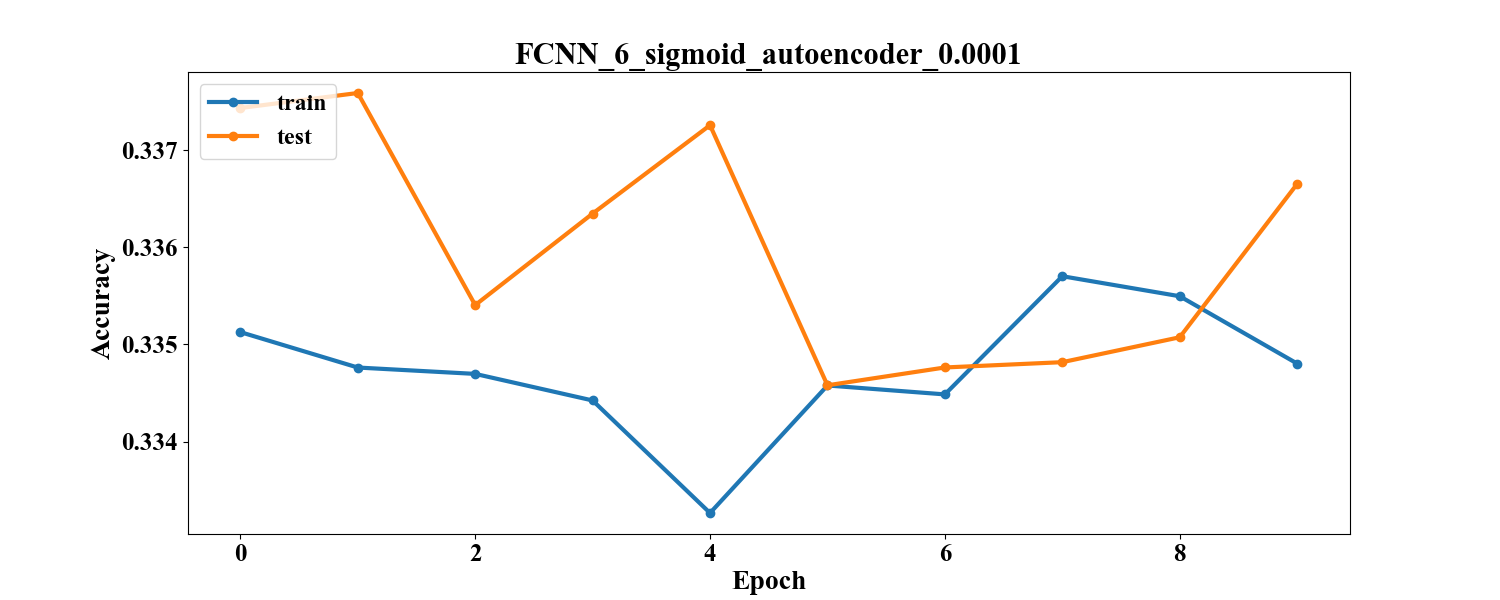
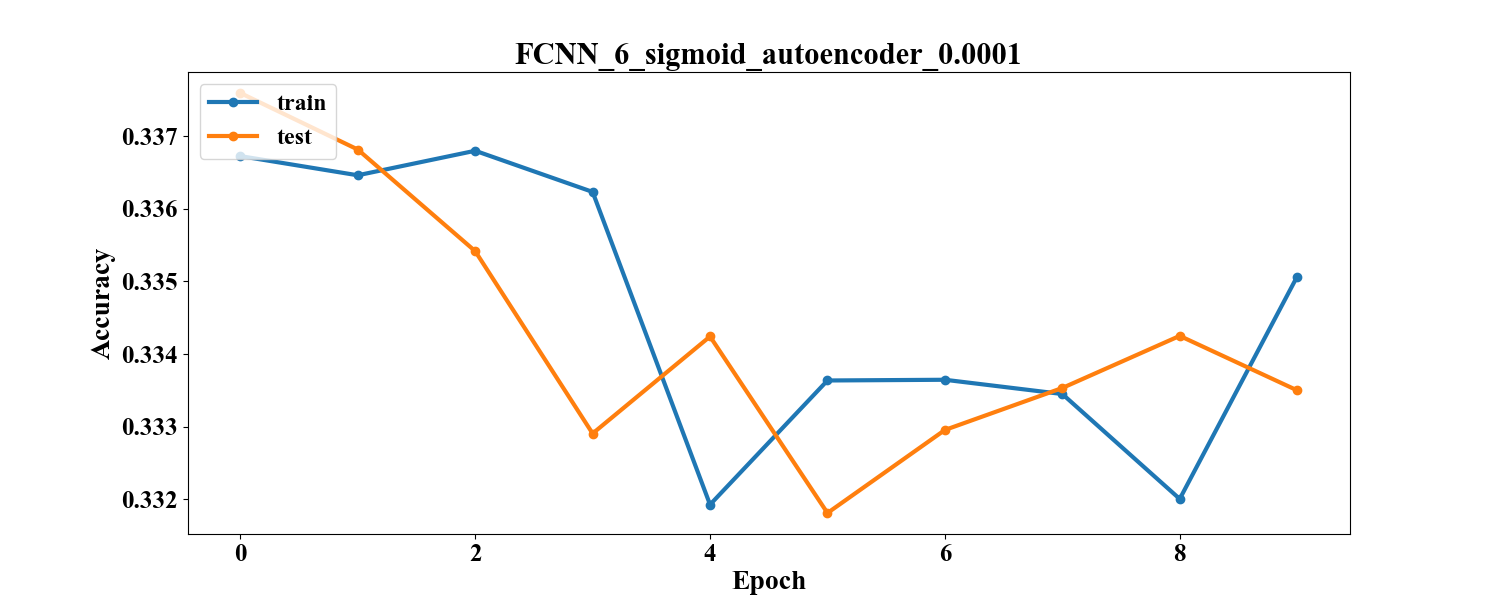
Update FCNN_6

diff --git a/lab4/readme.md b/lab4/readme.md
@@ -192,7 +192,7 @@ num_epochs = 10
 | :------------------------------------ | :-----------: | :-------: | :------------: | :--------: | :------------: |
 | FCNN_6_sigmoid                        |    0.8545     |  0.5885   |     0.9783     |   0.0777   |    689.7557    |
 | FCNN_6_sigmoid_pretraining            |     0.842     |  0.6536   |     0.9828     |   0.0709   |    697.6593    |
-| FCNN_6_sigmoid_pretraining_0.0001     |    0.8419     |  0.5944   |     0.9656     |   0.1477   |    702.888     |
+| FCNN_6_sigmoid_pretraining_0.0001     |     0.844     |  0.6026   |     0.9721     |   0.119    |    703.3358    |
 | FCNN_6_sigmoid_pretraining_with_stack |    0.8456     |  0.6361   |     0.9759     |   0.0873   |    689.8882    |
 
 |              Model name               |                            Accuracy                                    |                            Loss                                    |
@@ -206,7 +206,7 @@ num_epochs = 10
 | :------------------------------------ | :-----------: | :-------: | :------------: | :--------: | :------------: |
 | FCNN_1_sigmoid_autoencoder            |     0.599     |  0.0183   |     0.5801     |   0.0198   |    250.9933    |
 | FCNN_6_sigmoid_autoencoder            |    0.5114     |  0.0234   |     0.4855     |   0.023    |   1508.7251    |
-| FCNN_6_sigmoid_autoencoder_0.0001     |    0.3367     |  0.0751   |     0.3363     |   0.0533   |   1507.0768    |
+| FCNN_6_sigmoid_autoencoder_0.0001     |    0.3335     |  0.0751   |     0.3334     |   0.0533   |   1544.8717    |
 | FCNN_6_sigmoid_autoencoder_1_stack    |    0.6576     |  0.0137   |     0.6345     |   0.017    |    1246.62     |
 | FCNN_6_sigmoid_autoencoder_2_stack    |    0.6008     |  0.0022   |     0.5904     |   0.0015   |    216.447     |
 | FCNN_6_sigmoid_autoencoder_3_stack    |    0.7311     |  0.0016   |     0.7354     |   0.0012   |    31.2123     |
@@ -238,6 +238,10 @@ num_epochs = 10
 | :------------------------------------ | :-----------: | :-------: | :------------: | :--------: | :------------: |
 | CNN_1_relu_autoencoder                |    0.5702     |  0.0117   |     0.512      |   0.0157   |   1881.0585    |
 | CNN_10_relu_autoencoder               |     0.529     |  0.0123   |     0.481      |   0.0162   |   4135.7274    |
+
+[comment]: # (result_table_start)
+
+[comment]: # (result_table_end)
 
 ## Анализ
 
